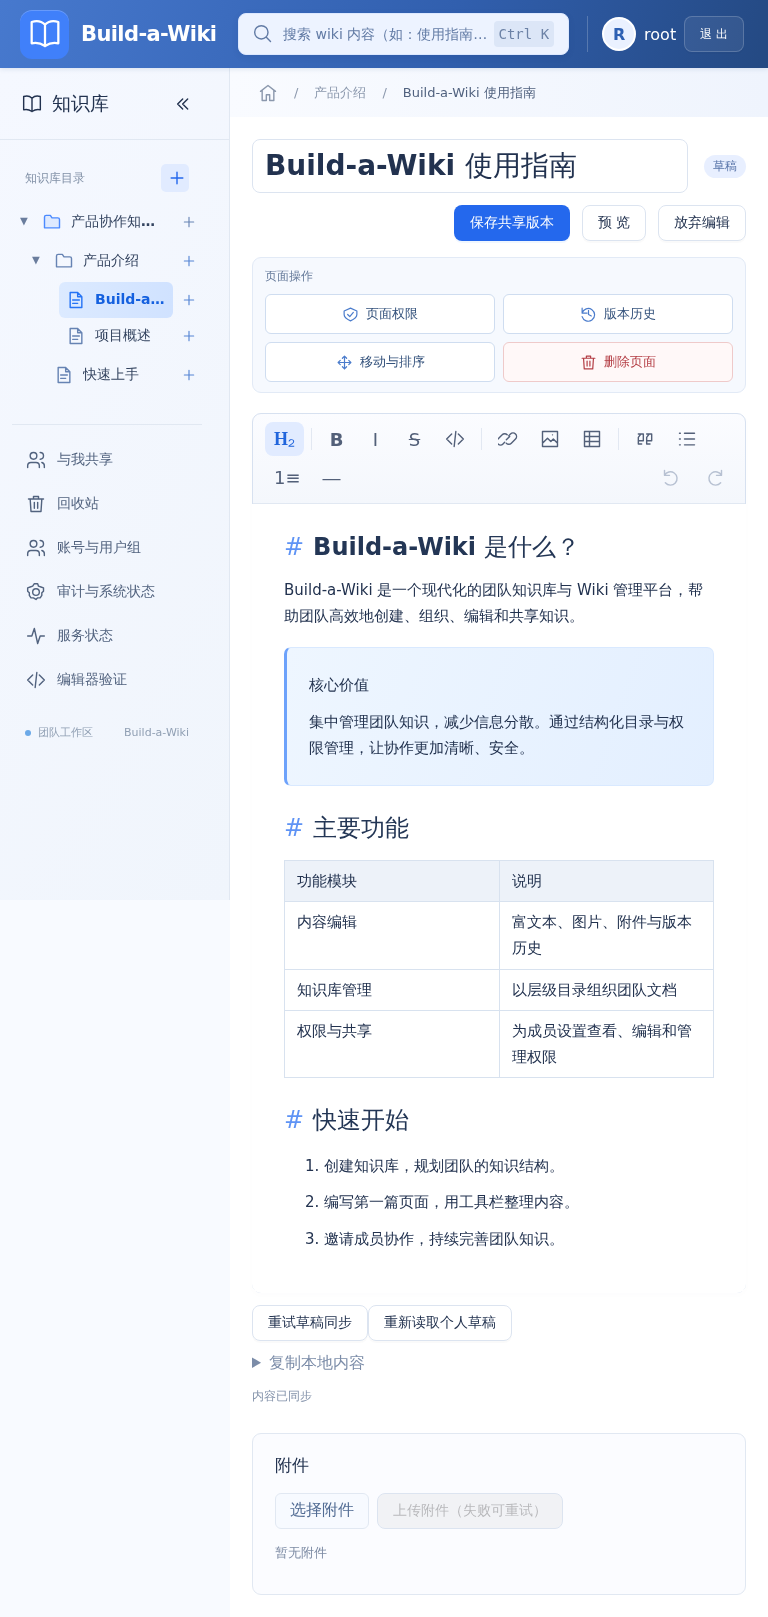
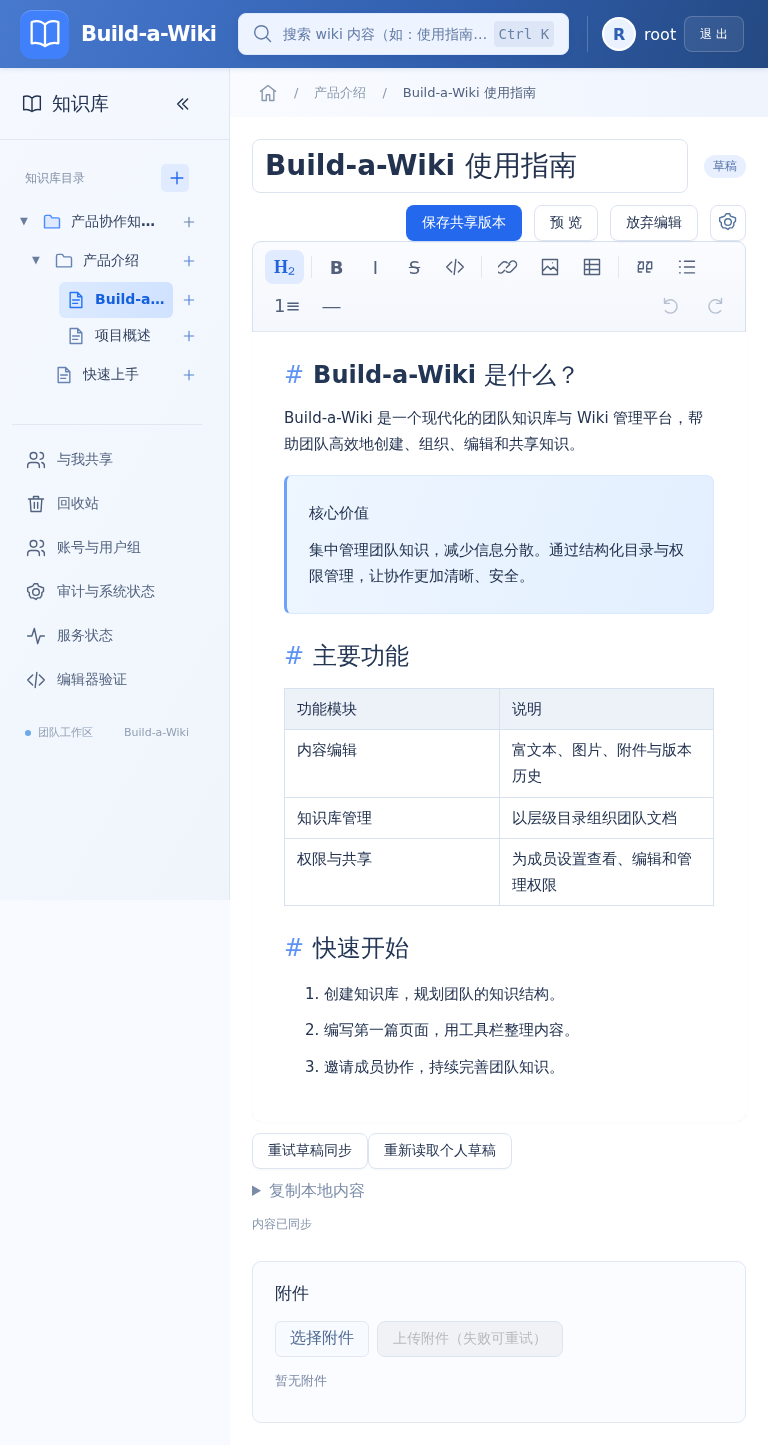
feat(ui): move page actions into settings dialog

diff --git a/frontend/src/style.css b/frontend/src/style.css
@@ -867,77 +867,41 @@ summary:focus-visible {
   flex-shrink: 0;
   padding: 0;
 }
-.document-links {
-  display: flex;
-  align-items: center;
-  flex-wrap: wrap;
-  gap: 12px;
-  margin: 16px 0 20px;
-  padding: 10px 12px;
-  background: #f6f9fe;
-  border: 1px solid #e2eaf6;
-  border-radius: 9px;
+.document-settings-trigger.ant-btn {
+  width: 36px;
+  padding: 0;
+  color: #52739e;
 }
-.document-tools-label {
-  color: #657a9a;
-  font-size: 12px;
-  font-weight: 600;
-  white-space: nowrap;
-}
-.document-tool-buttons {
-  display: flex;
-  flex: 1;
-  flex-wrap: wrap;
-  justify-content: flex-end;
+.document-settings-menu {
+  display: grid;
   gap: 8px;
-  min-width: 0;
+  padding-top: 8px;
 }
-.document-links a {
-  display: inline-flex;
+.document-settings-menu a {
+  display: flex;
   align-items: center;
-  justify-content: center;
-  gap: 7px;
-  min-height: 36px;
-  padding: 7px 12px;
-  background: #fff;
-  border: 1px solid #cfddf0;
+  gap: 12px;
+  min-height: 44px;
+  padding: 10px 12px;
   border-radius: 6px;
   color: #34527c;
-  font-size: 13px;
-  line-height: 20px;
-  font-weight: 600;
-  white-space: nowrap;
+  background: #f6f9fe;
   transition:
     background-color 120ms ease,
-    border-color 120ms ease,
     color 120ms ease;
 }
-.document-links a svg {
-  width: 17px;
-  height: 17px;
-  color: #4b7ccc;
-}
-.document-links a:hover {
+.document-settings-menu a:hover {
+  background: #eaf2ff;
   color: #165cda;
-  border-color: #8eb3ed;
-  background: #edf4ff;
 }
-.document-links a:active {
-  background: #dceaff;
-}
-.document-links .document-tool-danger {
-  margin-left: 6px;
-  border-color: #efcaca;
+.document-settings-menu .document-tool-danger {
+  margin-top: 8px;
   color: #b43e45;
-  background: #fff8f8;
+  background: #fff5f5;
 }
-.document-links .document-tool-danger svg {
-  color: inherit;
-}
-.document-links .document-tool-danger:hover {
-  border-color: #da858a;
+.document-settings-menu .document-tool-danger:hover {
+  background: #ffe8e8;
   color: #a72d36;
-  background: #ffeded;
 }
 .workspace-crumb {
   overflow: hidden;
@@ -1017,26 +981,6 @@ summary:focus-visible {
 }
 @media (max-width: 760px) {
   .document-header .document-actions {
-    margin-left: 0;
-  }
-}
-@media (max-width: 900px) {
-  .document-links {
-    display: block;
-  }
-  .document-tools-label {
-    display: block;
-    margin-bottom: 9px;
-  }
-  .document-tool-buttons {
-    display: grid;
-    grid-template-columns: repeat(2, minmax(0, 1fr));
-  }
-  .document-links a {
-    min-height: 40px;
-    padding: 7px 8px;
-  }
-  .document-links .document-tool-danger {
     margin-left: 0;
   }
 }

diff --git a/frontend/src/Pages.tsx b/frontend/src/Pages.tsx
@@ -5,7 +5,7 @@ import Icon from "./Icon";
 import EditorToolbar from "./EditorToolbar";
 import { Collapse, MotionAlert, TreeRow, notifyCreatedNode } from "./Motion";
 import type { CreatePageTarget } from "./CreatePageDialog";
-import { Alert, Button, Input, Form, Space, Spin, Empty } from "antd";
+import { Alert, Button, Input, Form, Space, Spin, Empty, Modal } from "antd";
 import {
   Link,
   NavLink,
@@ -274,6 +274,7 @@ function Document({
 }) {
   const { user } = useSession();
   const [editing, setEditing] = React.useState(false);
+  const [settingsOpen, setSettingsOpen] = React.useState(false);
   const [title, setTitle] = React.useState(page.title);
   const [body, setBody] = React.useState<JSONContent>(page.body as JSONContent);
   const [dirty, setDirty] = React.useState(false);
@@ -451,11 +452,31 @@ function Document({
               </Button>
             </>
           )}
+          <Button
+            className="document-settings-trigger"
+            aria-label="页面设置"
+            title="页面设置"
+            aria-haspopup="dialog"
+            aria-expanded={settingsOpen}
+            icon={<Icon name="settings" />}
+            onClick={() => setSettingsOpen(true)}
+          />
         </Space>
       </div>
-      <nav className="document-links" aria-label="页面操作">
-        <span className="document-tools-label">页面操作</span>
-        <div className="document-tool-buttons">
+      <Modal
+        title="页面设置"
+        open={settingsOpen}
+        onCancel={() => setSettingsOpen(false)}
+        footer={null}
+        width={360}
+        transitionName="wiki-dialog"
+        maskTransitionName="wiki-mask"
+      >
+        <nav
+          className="document-settings-menu"
+          aria-label="页面操作"
+          onClick={() => setSettingsOpen(false)}
+        >
           <Link to={`/pages/${page.id}/permissions`}>
             <Icon name="shield" />
             页面权限
@@ -479,8 +500,8 @@ function Document({
               删除页面
             </Link>
           )}
-        </div>
-      </nav>
+        </nav>
+      </Modal>
       <MotionAlert
         visible={!!message}
         type="success"

diff --git a/frontend/e2e/pages.spec.ts b/frontend/e2e/pages.spec.ts
@@ -65,6 +65,7 @@ test("page creation, rich text save and two-browser conflict preserve both versi
   await expect(page.locator(".tiptap")).toContainText("刷新后恢复的草稿");
   await page.getByRole("button", { name: "保存共享版本" }).click();
   await expect(page.getByText("共享版本已保存", { exact: true })).toBeVisible();
+  await page.getByRole("button", { name: "页面设置", exact: true }).click();
   await page.getByRole("link", { name: "版本历史", exact: true }).click();
   await page.getByRole("button", { name: "查看版本2", exact: true }).click();
   await expect(
@@ -75,6 +76,7 @@ test("page creation, rich text save and two-browser conflict preserve both versi
   await expect(page.getByText(/已恢复为新的共享版本/)).toBeVisible();
   await page.getByRole("link", { name: "返回页面", exact: true }).click();
   await expect(page.locator(".tiptap")).toContainText("甲的中文内容");
+  await page.getByRole("button", { name: "页面设置", exact: true }).click();
   await page.getByRole("link", { name: "移动与排序", exact: true }).click();
   await page.getByRole("spinbutton", { name: "排序序号" }).fill("-10");
   await page.getByRole("button", { name: "预览移动影响" }).click();

diff --git a/frontend/e2e/ui.spec.ts b/frontend/e2e/ui.spec.ts
@@ -118,6 +118,15 @@ test("design workspace: tree, formatting, global search, responsive layout", asy
       exact: true,
     }),
   ).toHaveAttribute("aria-current", "page");
+  await expect(page.getByRole("link", { name: "版本历史", exact: true })).not.toBeVisible();
+  const settings = page.getByRole("button", { name: "页面设置", exact: true });
+  await settings.click();
+  const settingsDialog = page.getByRole("dialog", { name: "页面设置" });
+  await expect(settingsDialog.getByRole("link", { name: "页面权限", exact: true })).toBeVisible();
+  await expect.poll(() => settingsDialog.evaluate((node) => node.contains(document.activeElement))).toBe(true);
+  await page.keyboard.press("Escape");
+  await expect(settingsDialog).not.toBeVisible();
+  await expect(settings).toBeFocused();
   await page.getByRole("button", { name: "编辑页面", exact: true }).click();
   await expect(page.getByRole("toolbar", { name: "正文格式" })).toBeVisible();
   const output = process.env.UI_SCREENSHOT_DIR ?? testInfo.outputPath("ui");

diff --git a/frontend/e2e/content.spec.ts b/frontend/e2e/content.spec.ts
@@ -75,6 +75,7 @@ test("attachments, literal search, trash restore, audit and offline local resour
   await page.getByLabel("全局搜索").press("Enter");
   await page.getByRole("link", { name: "附件百分比100%", exact: true }).click();
   await expect(page).toHaveURL(url);
+  await page.getByRole("button", { name: "页面设置", exact: true }).click();
   await page.getByRole("link", { name: "删除页面", exact: true }).click();
   await page.getByRole("button", { name: "预览删除影响" }).click();
   await expect(page.getByText(/本次将删除 1 个页面/)).toBeVisible();

diff --git a/docs/UI_REDESIGN.md b/docs/UI_REDESIGN.md
@@ -107,3 +107,9 @@ docker compose --env-file .data/compose-test.env -p wiki-acceptance \
 将页面权限、版本历史、移动与排序、删除页面统一放入浅蓝底的“页面操作”区域，入口采用图标、文字、边框组成的按钮外观，并提供悬停和按下反馈。删除使用红色图标和浅红背景，便于识别危险操作；沿用原有权限判断、导航及删除确认流程。桌面横向排列，900px 以下采用两列布局，兼顾平板和手机的点击面积。
 
 生产构建及内容、页面、响应式 UI 三项浏览器回归通过（41.2 秒）；平板布局调整后再次通过 UI 回归（19.9 秒）。桌面、平板、手机截图已更新。本地前端镜像 `753ab16386c4` 已应用，HTTPS 就绪检查返回 200。无新增依赖。
+
+## 页面操作收纳到设置弹窗
+
+移除独立“页面操作”栏，在“编辑页面”右侧增加带提示文字的齿轮图标按钮。编辑时该入口仍位于顶部操作区。点击打开“页面设置”弹窗，集中展示页面权限、版本历史、移动与排序及红色删除入口，保留原有角色判断与导航确认。支持关闭按钮、遮罩及 Escape 关闭，关闭后焦点回到齿轮按钮；沿用现有弹窗动效。
+
+生产构建通过，内容和页面流程回归通过；UI 测试等待弹窗入场获得焦点后验证 Escape，复跑通过（21.1 秒），并更新三种尺寸截图。本地镜像 `772a58ab3c87` 已应用，健康检查返回 200。无新增依赖。

diff --git a/docs/CHECKLIST.md b/docs/CHECKLIST.md
@@ -102,3 +102,4 @@ A组任务已完成并记录校验小结。复现命令和结果详见 VALIDATIO
 | 高优先级动画 | ✔ | 目录/侧栏、编辑预览、提示、弹窗和新建节点六类动效完成；支持快速反向操作及减少动态效果，7 项浏览器场景和 8 项单元测试通过，详见 MOTION.md。 |
 | 权限页返回入口 | ✔ | 标题左侧加入返回页面/返回知识库按钮；独立授权移除括号说明；生产构建及权限浏览器回归通过。 |
 | 编辑页操作入口强化 | ✔ | 权限、历史、移动改为带图标的边框按钮，删除采用红色危险样式；增加操作分区，平板/手机两列布局；构建与三项浏览器回归通过，更新本地前端及截图，无新增依赖。 |
+| 页面设置弹窗 | ✔ | 移除独立操作栏，将权限、历史、移动、删除收纳到编辑按钮旁的齿轮弹窗；验证各入口、Escape 关闭与焦点恢复，更新三种尺寸截图及本地前端，无新增依赖。 |
